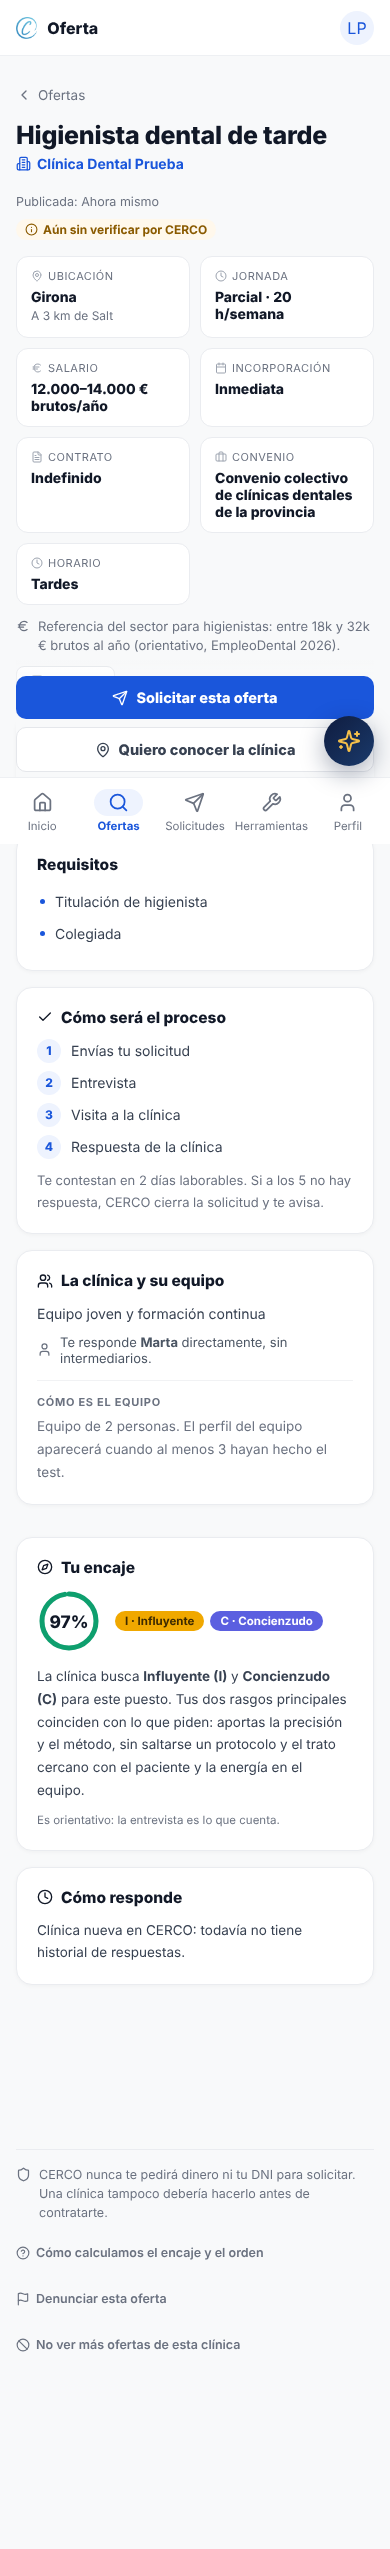
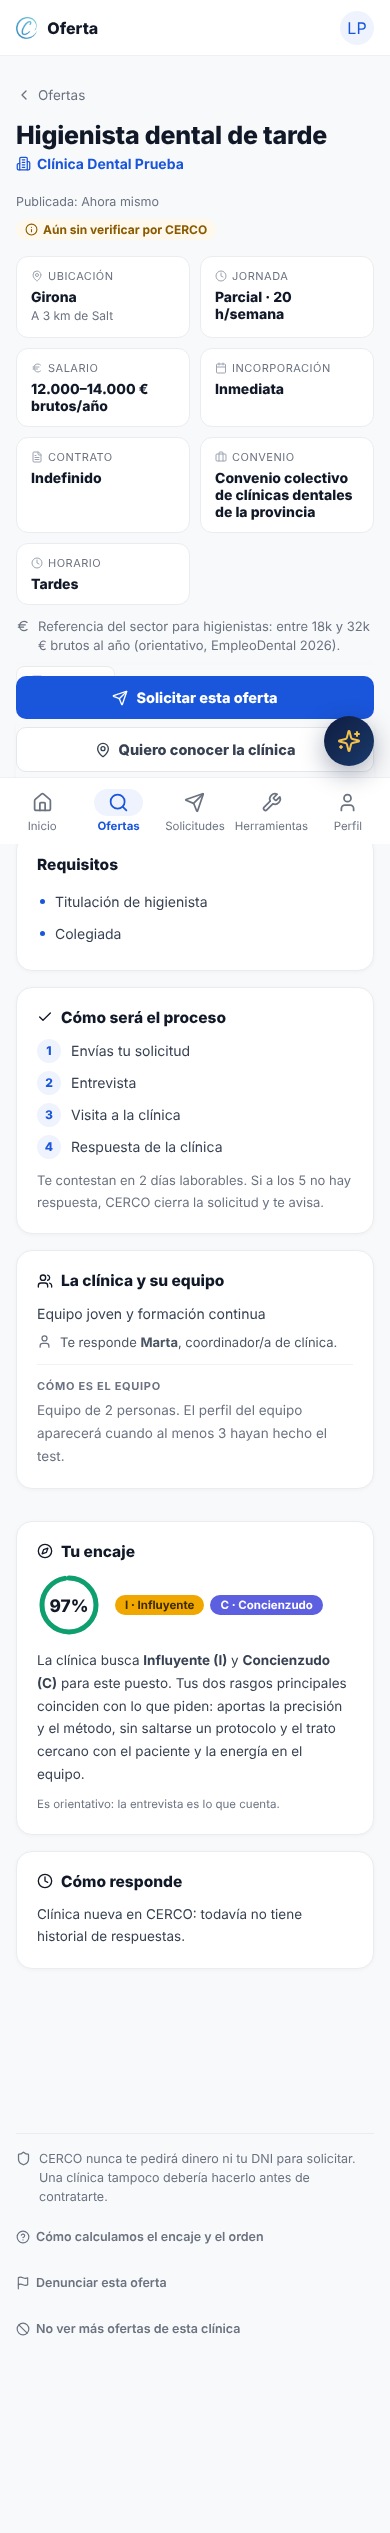
Cambio: el rol «Responsable de personal» se llama ahora «Coordinador/a de clínica»
En «Mi cuenta» de la clínica y en lo que ve el profesional en la oferta
(«Te responde Marta, coordinador/a de clínica.»). El dato guardado no cambia
(sigue siendo «Responsable de RRHH» por dentro), así que las clínicas reales
que lo tenían elegido lo verán con el nombre nuevo sin tocar nada.

Claude-Session: https://claude.ai/code/session_01L5qSpH5ECCjMh1xfSpjWDJ

diff --git a/index.html b/index.html
@@ -2056,7 +2056,7 @@ __SCREENS_CSS__/* ===== onboarding ===== */
           <option>Gerente</option>
           <option>Director/a clínico</option>
           <option>Odontólogo/a</option>
-          <option value="Responsable de RRHH">Responsable de personal</option>
+          <option value="Responsable de RRHH">Coordinador/a de clínica</option>
           <option>Propietario/a</option>
         </select>
       </div>
@@ -7545,8 +7545,8 @@ function updateMcBadge(){
 
   if(letter && !(av && av.style.backgroundImage)) letter.textContent = nom ? nom.charAt(0).toUpperCase() : '?';
   if(heroName) heroName.textContent = nom || 'Tu nombre';
-  // El valor guardado sigue siendo «Responsable de RRHH»; en pantalla se dice «Responsable de personal»
-  if(heroRole) heroRole.textContent = (rol === 'Responsable de RRHH' ? 'Responsable de personal' : rol) + (clinica ? ' · ' + clinica : '');
+  // El valor guardado sigue siendo «Responsable de RRHH»; en pantalla se dice «Coordinador/a de clínica»
+  if(heroRole) heroRole.textContent = (rol === 'Responsable de RRHH' ? 'Coordinador/a de clínica' : rol) + (clinica ? ' · ' + clinica : '');
 
   // El rol elegido se guarda con el resto del perfil
   try {
@@ -9117,7 +9117,7 @@ function renderMiCuenta(){
   }
   var rol = rolSel ? rolSel.value : 'Gerente';
   set('mc-hero-name', nom || 'Tu nombre');
-  set('mc-hero-role', (rol === 'Responsable de RRHH' ? 'Responsable de personal' : rol) + (c.nom ? ' · ' + c.nom : ''));
+  set('mc-hero-role', (rol === 'Responsable de RRHH' ? 'Coordinador/a de clínica' : rol) + (c.nom ? ' · ' + c.nom : ''));
   set('mc-st-ofertas', r.activas);
   set('mc-st-cand', r.candidatos);
   set('mc-st-equipo', r.miembros);

diff --git a/pruebas/e2e/10-recorrido.spec.js b/pruebas/e2e/10-recorrido.spec.js
@@ -87,6 +87,15 @@ test('1. La clínica se registra, configura su perfil y hace su test', async () 
   await expect(page.locator('#screen-publicat')).toContainText('QUIÉN RESPONDE A LOS CANDIDATOS');
   await expect(page.locator('#screen-publicat')).not.toContainText(/responsable de contratación/i);
   await capturar(page, 'clinica-06-perfil-publicado');
+
+  // Mi cuenta: el rol se elige con el nombre «Coordinador/a de clínica», pero
+  // el dato que se guarda sigue siendo el de siempre («Responsable de RRHH»)
+  await page.evaluate(() => showScreen('mi-cuenta'));
+  await page.selectOption('#mc-rol', { label: 'Coordinador/a de clínica' });
+  await expect(page.locator('#mc-rol')).toHaveValue('Responsable de RRHH');
+  await expect(page.locator('#mc-hero-role')).toContainText('Coordinador/a de clínica');
+  await expect.poll(() => page.evaluate(() => JSON.parse(localStorage.getItem('cerco_empresa') || '{}').rol)).toBe('Responsable de RRHH');
+  await capturar(page, 'clinica-06b-mi-cuenta');
 });
 
 test('2. Un trabajador hace el test con el enlace del equipo', async ({ browser }, testInfo) => {
@@ -221,6 +230,7 @@ test('4c. La profesional ve las ofertas con su % de encaje y solicita las dos', 
   await page.locator('.of-t', { hasText: /^Higienista dental de tarde$/ }).locator('visible=true').first().click();
   await seVe(page, 'Tu encaje');
   await seVe(page, 'A 3 km de Salt');
+  await expect(page.locator('body')).toContainText('Te responde Marta, coordinador/a de clínica.');
   await expect(page.locator('body')).not.toContainText('1 personas');
   await capturar(page, 'pro-13-oferta-detalle');
   await page.getByRole('button', { name: 'Solicitar esta oferta' }).click();

diff --git a/candidato.html b/candidato.html
@@ -3142,7 +3142,7 @@ function tarjetaClinica(o, cl, d){
   if(f.length) h += '<div class="cl-fotos n'+Math.min(f.length,4)+'">' + f.slice(0,4).map(function(u, i){ return '<img src="'+esc(u)+'" alt="Foto '+(i+1)+' de '+esc(cl.nom||'la clínica')+'" loading="lazy">'; }).join('') + '</div>';
   if(cl.descripcion) h += '<p class="txt" style="margin-bottom:12px;">'+esc(cl.descripcion)+'</p>';
   if(cl.responsable){
-    var ROL = {'Gerente':'gerente de la clínica', 'Director/a clínico':'director/a clínico', 'Odontólogo/a':'odontólogo/a de la clínica', 'Responsable de RRHH':'responsable de personal', 'Propietario/a':'propietario/a de la clínica'};
+    var ROL = {'Gerente':'gerente de la clínica', 'Director/a clínico':'director/a clínico', 'Odontólogo/a':'odontólogo/a de la clínica', 'Responsable de RRHH':'coordinador/a de clínica', 'Propietario/a':'propietario/a de la clínica'};
     var rol = ROL[cl.responsableRol] || '';
     h += '<div class="cl-resp">'+svg('user','#6B7280',15)+'<span>Te responde <b>'+esc(cl.responsable)+'</b>'+(rol ? ', ' + esc(rol) + '.' : ' directamente, sin intermediarios.')+'</span></div>';
   }
